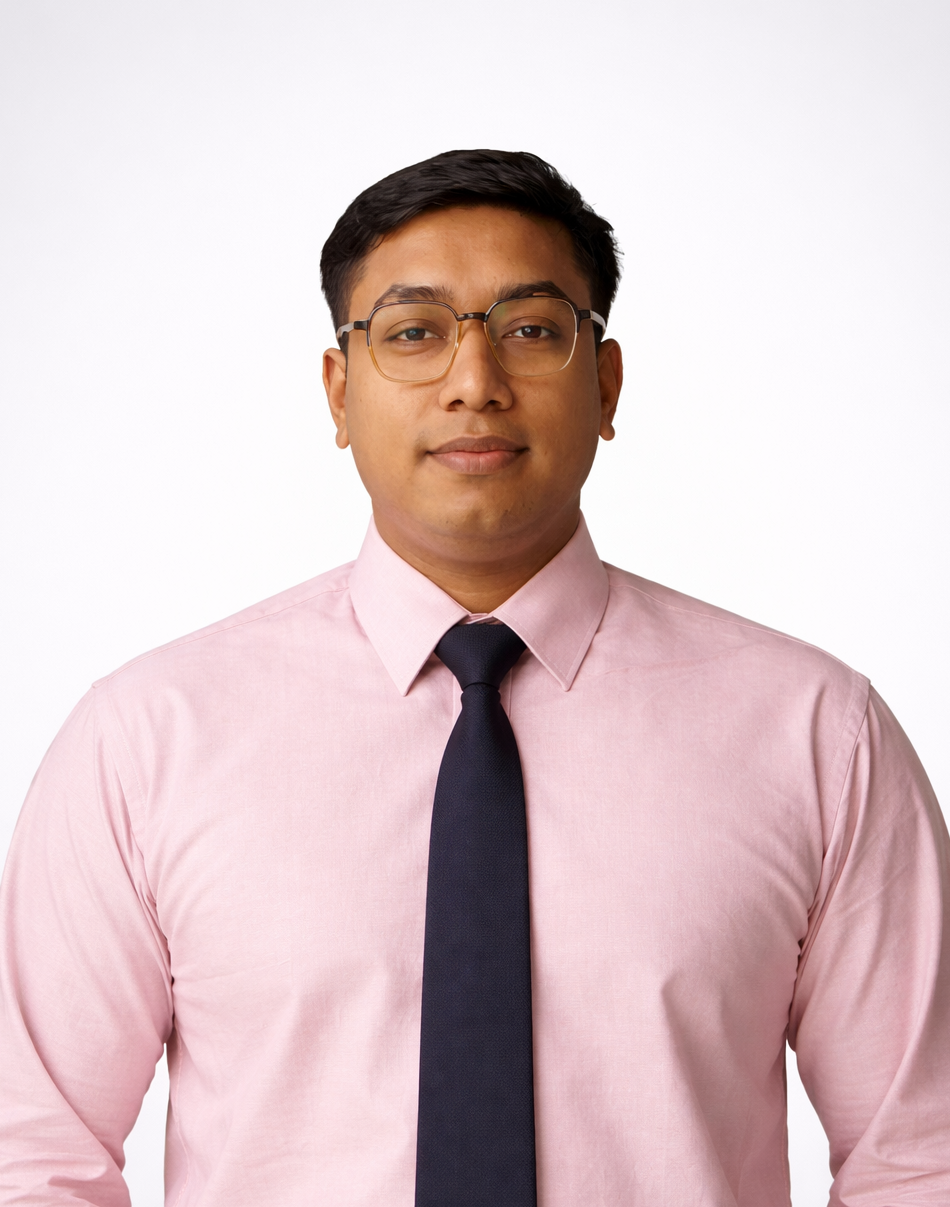
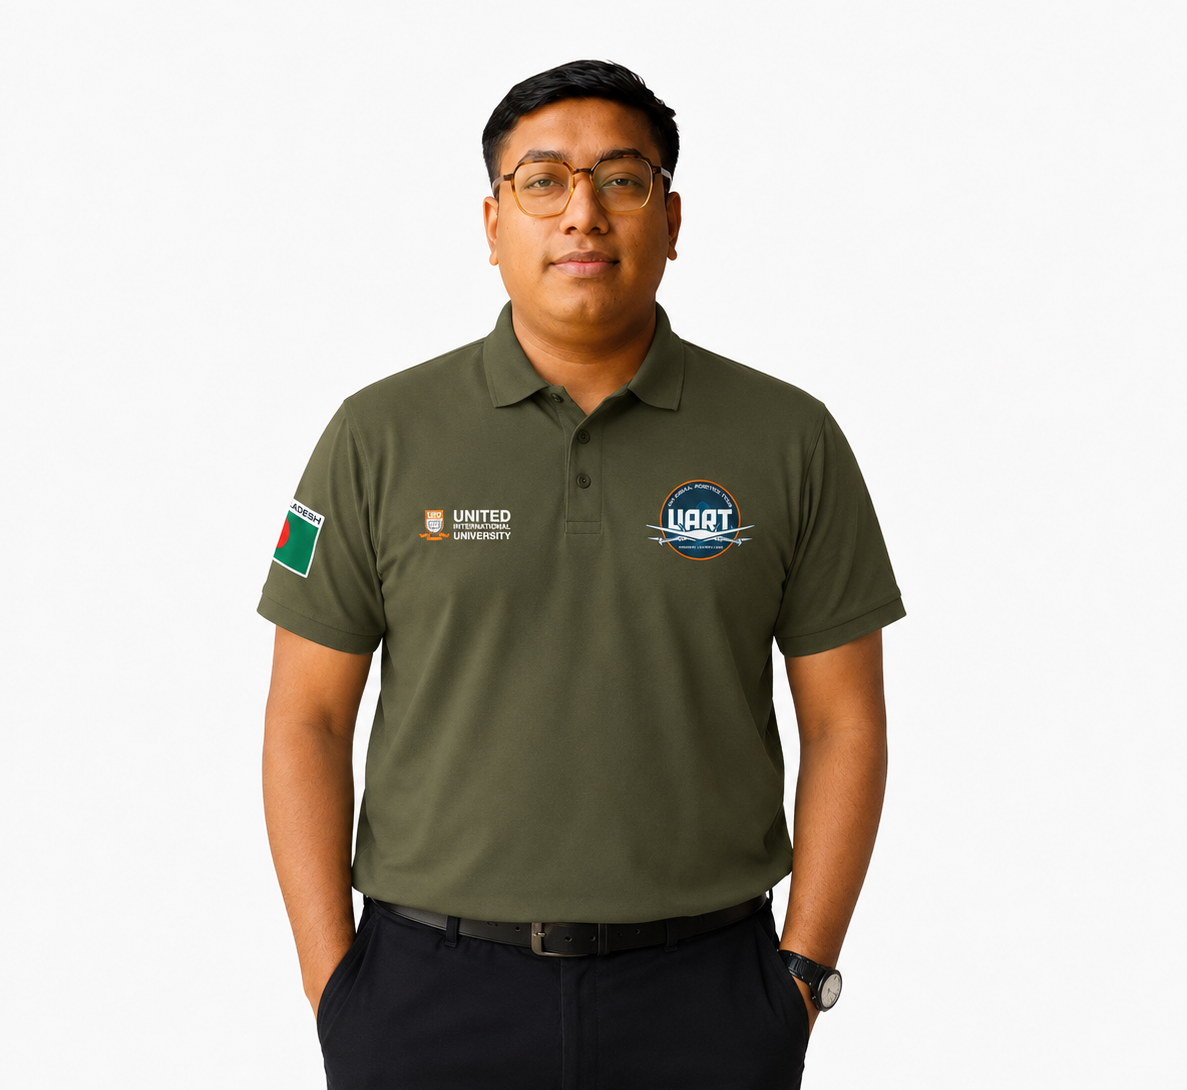
team image and position updated

diff --git a/src/components/Team.tsx b/src/components/Team.tsx
@@ -1,28 +1,28 @@
 import React, { useState, useEffect } from 'react';
 import { GraduationCap, Mail, Linkedin, Award, Users, Trophy, ChevronRight, User } from 'lucide-react';
 import { useSearchParams } from 'react-router-dom';
-import member1 from '../assets/images/Team/member1.jpeg';
-import member2 from '../assets/images/Team/member2.jpg';
-import member3 from '../assets/images/Team/member3.jpeg';
-import member4 from '../assets/images/Team/member4.jpg';
-import member5 from '../assets/images/Team/member5.jpg';
-import member7 from '../assets/images/Team/member7.jpeg';
-import member8 from '../assets/images/Team/member8.jpeg';
-import member9 from '../assets/images/Team/member9.jpeg';
-import adnan from '../assets/images/Team/adnan.jpeg';
+import member1 from '../assets/images/Team/member1.png';
+import member2 from '../assets/images/Team/member2.png';
+import member3 from '../assets/images/Team/member3.png';
+import member4 from '../assets/images/Team/member4.png';
+import member5 from '../assets/images/Team/member5.png';
+import member7 from '../assets/images/Team/member7.png';
+import member8 from '../assets/images/Team/member8.png';
+import member9 from '../assets/images/Team/member9.png';
+import adnan from '../assets/images/Team/adnan.png';
 import alfi from '../assets/images/Team/alfi.png';
-import israfil from '../assets/images/Team/israfil.jpg';
-import ratul from '../assets/images/Team/ratul.jpg';
+import israfil from '../assets/images/Team/israfil.png';
+import ratul from '../assets/images/Team/ratul.png';
 import anika from '../assets/images/Team/orthy.jpeg';
-import jarin from '../assets/images/Team/jahrin.jpg';
-import rashed from '../assets/images/Team/rashed.jpg';
+import jarin from '../assets/images/Team/dip.png';
+import rashed from '../assets/images/Team/rashed.png';
 import talha from '../assets/images/Team/talha.png';
 import alif from '../assets/images/Team/alif.jpg';
-import probin from '../assets/images/Team/probin.jpeg';
-import shahad from '../assets/images/Team/shahad.jpg';
-import arpon from '../assets/images/Team/arpon.jpg';
-import nazifa from '../assets/images/Team/nazifa.jpg';
-import sumaiya from '../assets/images/Team/sumaiya.jpg';
+import probin from '../assets/images/Team/probin.png';
+import shahad from '../assets/images/Team/shahad.png';
+import arpon from '../assets/images/Team/arpon.png';
+import nazifa from '../assets/images/Team/nazifa.png';
+import sumaiya from '../assets/images/Team/sumaiya.png';
 
 const Team = () => {
   const [searchParams, setSearchParams] = useSearchParams();
@@ -64,26 +64,28 @@ const Team = () => {
   const teamMembers = [
     { id: 'm1', name: 'T M AL Anam', role: 'TEAM LEAD', team: 'Electrical Team', department: 'Department of CSE', image: member1, category: 'leadership', email: 'tmukit@gmail.com', linkedin: 'https://www.linkedin.com/in/tmalanam?utm_source=share_via&utm_content=profile&utm_medium=member_android' },
     { id: 'm2', name: 'Ahmed Junaed', role: 'CO-TEAM LEAD', team: 'Software & Navigation Team', department: 'Department of CSE', image: member2, category: 'leadership', email: 'ajunaed.work@gmail.com', linkedin: 'https://www.linkedin.com/in/ajunaed/' },
-    { id: 'm3', name: 'Fahad Rahaman', role: 'SUB TEAM LEAD', team: 'Software & Navigation Team', department: 'Department of CSE', image: member3, category: 'leadership', email: 'fahadrahman020@gmail.com', linkedin: 'https://www.linkedin.com/in/fahad-rahman-ovi?utm_source=share&utm_campaign=share_via&utm_content=profile&utm_medium=android_app' },
+    { id: 'm3', name: 'Fahad Rahaman', role: 'SUB TEAM LEAD', team: 'Software & Navigation Team & R&D Team', department: 'Department of CSE', image: member3, category: 'leadership', email: 'fahadrahman020@gmail.com', linkedin: 'https://www.linkedin.com/in/fahad-rahman-ovi?utm_source=share&utm_campaign=share_via&utm_content=profile&utm_medium=android_app' },
     { id: 'm4', name: 'MD Ifta Faisal', role: 'SUB TEAM LEAD', team: 'Web & Communication Team', department: 'Department of CSE', image: member4, category: 'leadership', email: 'iftafaisal759@gmail.com', linkedin: 'https://www.linkedin.com/in/ifta-faisal-030738255?utm_source=share_via&utm_content=profile&utm_medium=member_android' },
     { id: 'm5', name: 'Muktaderul Islam', role: 'SUB TEAM LEAD', team: 'Mechanical Team', department: 'Department of CSE', image: member5, category: 'leadership', email: 'mislam222147@bscse.uiu.ac.bd', linkedin: 'https://www.linkedin.com/in/muktaderul-islam-17a714357/' },
-    { id: 'm6', name: 'Maysoon Zahir', role: 'MEMBER', team: 'PR & Marketing Team', department: 'Department of CSE', image: member7, category: 'member', email: 'mzahir2520045@bsds.uiu.ac.bd', linkedin: 'https://www.linkedin.com/in/maysoon-zahir-79b643242?utm_source=share&utm_campaign=share_via&utm_content=profile&utm_medium=ios_app' },
-    { id: 'm7', name: 'Digonta Karmaker', role: 'MEMBER', team: 'Electrical Team', department: 'Department of EEE', image: member9, category: 'member', email: ' dkarmaker2330144@bseee.uiu.ac.bd', linkedin: 'https://www.linkedin.com/in/digonta-karmaker-72930a37b?utm_source=share&utm_campaign=share_via&utm_content=profile&utm_medium=android_app' },
-    { id: 'm8', name: 'Khalid Hasan Talha', role: 'MEMBER', team: 'Electrical & Mechanical Team', department: 'Department of EEE', image: talha, category: 'member', email: 'ktalha181034@bseee.uiu.ac.bd', linkedin: 'https://www.linkedin.com/in/khalid-hasan-talha-81597018b' },
+    { id: 'm6', name: 'Maysoon Zahir', role: 'SUB TEAM LEAD', team: 'PR & Marketing Team & R&D Team', department: 'Department of Data Science', image: member7, category: 'leadership', email: 'mzahir2520045@bsds.uiu.ac.bd', linkedin: 'https://www.linkedin.com/in/maysoon-zahir-79b643242?utm_source=share&utm_campaign=share_via&utm_content=profile&utm_medium=ios_app' },
+    { id: 'm23', name: 'Dip', role: 'MEMBER', team: 'PR & Marketing Team', department: 'Department of CSE', image: jarin, category: 'member', email: '', linkedin: '' },
+    { id: 'm7', name: 'Digonta Karmaker', role: 'MEMBER', team: 'Mechanical Team & Software & Navigation Team', department: 'Department of EEE', image: member9, category: 'member', email: ' dkarmaker2330144@bseee.uiu.ac.bd', linkedin: 'https://www.linkedin.com/in/digonta-karmaker-72930a37b?utm_source=share&utm_campaign=share_via&utm_content=profile&utm_medium=android_app' },
+    { id: 'm8', name: 'Khalid Hasan Talha', role: 'MEMBER', team: 'Mechanical Team', department: 'Department of EEE', image: talha, category: 'member', email: 'ktalha181034@bseee.uiu.ac.bd', linkedin: 'https://www.linkedin.com/in/khalid-hasan-talha-81597018b' },
     { id: 'm9', name: 'Adnan Mohammad Salauddin', role: 'MEMBER', team: 'Mechanical Team', department: 'Department of CSE', image: adnan, category: 'member', email: 'adnanmohammad546@gmail.com', linkedin: 'https://www.linkedin.com/in/adnan-sohag-76b376276?utm_source=share_via&utm_content=profile&utm_medium=member_ios' },
     { id: 'm10', name: 'Probin Chandra Nath', role: 'MEMBER', team: 'Electrical and Mechanical Team', department: 'Department of EEE', image: probin, category: 'member', email: 'pnath2330014', linkedin: 'https://www.linkedin.com/in/probin-nath-032985343?utm_source=share_via&utm_content=profile&utm_medium=member_android' },
     { id: 'm11', name: 'Ratul Ghosh', role: 'MEMBER', team: 'R&D Team', department: 'Department of CSE', image: ratul, category: 'member', email: 'rghosh2410038@bscse.uiu.ac.bd', linkedin: 'https://www.linkedin.com/in/ratul-ghosh-7bb172377?' },
-    { id: 'm12', name: 'Chowdhury Wayez Kurunee Alif', role: 'MEMBER', team: 'Nav & Soft Team', department: 'Department of CSE', image: alif, category: 'member', email: 'calif221474@bscse.uiu.ac.bd', linkedin: 'https://www.linkedin.com/in/wayezkurunee-alif-4a4b14227?utm_source=share_via&utm_content=profile&utm_medium=member_android' },
-    { id: 'm13', name: 'Md. Israfil Hossain', role: 'MEMBER', team: 'R&D Team', department: 'Department of CSE', image: israfil, category: 'member', email: 'mhossain223585@bscse.uiu.ac.bd', linkedin: 'https://www.linkedin.com/in/md-israfil-hossain-869851193' },
-    { id: 'm14', name: 'Abdur Rahman', role: 'MEMBER', team: 'Electrical & Mechanical Team', department: 'Department of EEE', image: rashed, category: 'member', email: 'rashedur2545@gmail.com', linkedin: 'https://www.linkedin.com/in/abdur-rahman-rashed' },
-    { id: 'm15', name: 'Md. Biplob', role: 'MEMBER', team: 'R&D Team', department: 'Department of CSE', image: alfi, category: 'member', email: 'mbiplob223592@bscse.uiu.ac.bd', linkedin: 'https://www.linkedin.com/in/mdbiplob' },
+    // { id: 'm12', name: 'Chowdhury Wayez Kurunee Alif', role: 'MEMBER', team: 'Nav & Soft Team', department: 'Department of CSE', image: alif, category: 'member', email: 'calif221474@bscse.uiu.ac.bd', linkedin: 'https://www.linkedin.com/in/wayezkurunee-alif-4a4b14227?utm_source=share_via&utm_content=profile&utm_medium=member_android' },
+    { id: 'm13', name: 'Md. Israfil Hossain', role: 'MEMBER', team: 'R&D Team & Web & Communication Team', department: 'Department of CSE', image: israfil, category: 'member', email: 'mhossain223585@bscse.uiu.ac.bd', linkedin: 'https://www.linkedin.com/in/md-israfil-hossain-869851193' },
+    { id: 'm14', name: 'Abdur Rahman', role: 'MEMBER', team: 'Electrical', department: 'Department of EEE', image: rashed, category: 'member', email: 'rashedur2545@gmail.com', linkedin: 'https://www.linkedin.com/in/abdur-rahman-rashed' },
+    { id: 'm15', name: 'Md. Biplob', role: 'MEMBER', team: 'R&D Team & Web & Communication Team', department: 'Department of CSE', image: alfi, category: 'member', email: 'mbiplob223592@bscse.uiu.ac.bd', linkedin: 'https://www.linkedin.com/in/mdbiplob' },
     { id: 'm16', name: 'Anika Noyshin Orthy', role: 'MEMBER', team: 'Electrical Team', department: 'Department of EEE', image: anika, category: 'member', email: 'aorthy2330060@bseee.uiu.ac.bd', linkedin: 'https://www.linkedin.com/in/anika-noyshin-orthy-280680242?utm_source=share_via&utm_content=profile&utm_medium=member_ios' },
-    { id: 'm17', name: 'Jahrin Binte Zahid', role: 'MEMBER', team: 'Autonomous & Navigation Team', department: 'Department of CSE', image: jarin, category: 'member', email: 'jzahid2330034@bscse.uiu.ac.bd', linkedin: 'https://www.linkedin.com/in/jahrin-binte-zahid-28bb09352?utm_source=share_via&utm_content=profile&utm_medium=member_android' },
-    { id: 'm18', name: 'Bahar Shahriyar', role: 'MEMBER', team: 'Web & Communication Team', department: 'Department of CSE', image: member8, category: 'member', email: ' bhr.shkh@gmail.com', linkedin: 'https://www.linkedin.com/in/bahauddin-sheik-bahar-6776ba152?utm_source=share&utm_campaign=share_via&utm_content=profile&utm_medium=android_app' },
+    { id: 'm17', name: 'Nusrat Jahan', role: 'MEMBER', team: 'Autonomous & Navigation Team', department: 'Department of CSE', image: jarin, category: 'member', email: 'jzahid2330034@bscse.uiu.ac.bd', linkedin: 'https://www.linkedin.com/in/jahrin-binte-zahid-28bb09352?utm_source=share_via&utm_content=profile&utm_medium=member_android' },
+    { id: 'm18', name: 'Bahar Shahriyar', role: 'MEMBER', team: 'Web & Communication Team & PR & Marketing Team', department: 'Department of CSE', image: member8, category: 'member', email: ' bhr.shkh@gmail.com', linkedin: 'https://www.linkedin.com/in/bahauddin-sheik-bahar-6776ba152?utm_source=share&utm_campaign=share_via&utm_content=profile&utm_medium=android_app' },
     { id: 'm19', name: 'Sumaiya Sadika', role: 'MEMBER', team: 'R&D Team', department: 'Department of CSE', image: sumaiya, category: 'member', email: 'ssadika2330926@bscse.uiu.ac.bd', linkedin: 'https://www.linkedin.com/in/sumaiya-sadika-a48b54293' },
     { id: 'm20', name: 'Mobassir Hossain Shahad', role: 'MEMBER', team: 'Electrical Team', department: 'Department of EEE', image: shahad, category: 'member', email: 'mshahad2330059@bseee.uiu.ac.bd', linkedin: 'https://www.linkedin.com/in/mobassir-hossain-shahad-367871392' },
     { id: 'm21', name: 'Md Shazan Mahmud Arpon', role: 'MEMBER', team: 'Software & Navigation Team', department: 'Department of CSE', image: arpon, category: 'member', email: 'marpon2410351@bscse.uiu.ac.bd', linkedin: 'https://www.linkedin.com/in/md-shazan-mahmud-arpon' },
     { id: 'm22', name: 'Najifa Nawar', role: 'MEMBER', team: 'R&D Team', department: 'Department of CSE', image: nazifa, category: 'member', email: 'nawarnajifa32@gmail.com', linkedin: 'https://www.linkedin.com/in/najifa-nawar-b21137403?utm_source=share_via&utm_content=profile&utm_medium=member_android' },
+  
   ];
 
   const targetId = searchParams.get('id');
@@ -126,6 +128,7 @@ const Team = () => {
     const getDisplayRole = (member: any) => {
       if (member.name === 'T M AL Anam' && filter === 'electronics') return 'SUB TEAM LEAD';
       if (member.name === 'Ahmed Junaed' && filter === 'software') return 'MEMBER';
+      if (member.name === 'Maysoon Zahir' && filter === 'rd') return 'MEMBER';
       return member.role;
     };
 
@@ -215,6 +218,7 @@ const Team = () => {
                       {(() => {
                         if (member.name === 'T M AL Anam' && filter === 'electronics') return 'SUB TEAM LEAD';
                         if (member.name === 'Ahmed Junaed' && filter === 'software') return 'MEMBER';
+                        if (member.name === 'Maysoon Zahir' && filter === 'rd') return 'MEMBER';
                         return member.role;
                       })()}
                     </span>

diff --git a/src/components/Search.tsx b/src/components/Search.tsx
@@ -18,28 +18,28 @@ import aether1 from "../assets/images/Project/Aether_1.jpg";
 import deadcat1 from "../assets/images/Project/Deadcat_1.jpg";
 
 // ─── Team Member Imports ───
-import member1 from '../assets/images/Team/member1.jpeg';
-import member2 from '../assets/images/Team/member2.jpg';
-import member3 from '../assets/images/Team/member3.jpeg';
-import member4 from '../assets/images/Team/member4.jpg';
-import member5 from '../assets/images/Team/member5.jpg';
-import member7 from '../assets/images/Team/member7.jpeg';
-import member8 from '../assets/images/Team/member8.jpeg';
-import member9 from '../assets/images/Team/member9.jpeg';
-import adnan from '../assets/images/Team/adnan.jpeg';
+import member1 from '../assets/images/Team/member1.png';
+import member2 from '../assets/images/Team/member2.png';
+import member3 from '../assets/images/Team/member3.png';
+import member4 from '../assets/images/Team/member4.png';
+import member5 from '../assets/images/Team/member5.png';
+import member7 from '../assets/images/Team/member7.png';
+import member8 from '../assets/images/Team/member8.png';
+import member9 from '../assets/images/Team/member9.png';
+import adnan from '../assets/images/Team/adnan.png';
 import alfi from '../assets/images/Team/alfi.png';
-import israfil from '../assets/images/Team/israfil.jpg';
-import ratul from '../assets/images/Team/ratul.jpg';
+import israfil from '../assets/images/Team/israfil.png';
+import ratul from '../assets/images/Team/ratul.png';
 import anika from '../assets/images/Team/orthy.jpeg';
-import jarin from '../assets/images/Team/jahrin.jpg';
-import rashed from '../assets/images/Team/rashed.jpg';
+import jarin from '../assets/images/Team/dip.png';
+import rashed from '../assets/images/Team/rashed.png';
 import talha from '../assets/images/Team/talha.png';
 import alif from '../assets/images/Team/alif.jpg';
-import probin from '../assets/images/Team/probin.jpeg';
-import shahad from '../assets/images/Team/shahad.jpg';
-import arpon from '../assets/images/Team/arpon.jpg';
-import nazifa from '../assets/images/Team/nazifa.jpg';
-import sumaiya from '../assets/images/Team/sumaiya.jpg';
+import probin from '../assets/images/Team/probin.png';
+import shahad from '../assets/images/Team/shahad.png';
+import arpon from '../assets/images/Team/arpon.png';
+import nazifa from '../assets/images/Team/nazifa.png';
+import sumaiya from '../assets/images/Team/sumaiya.png';
 
 interface SearchResult {
   id: string;
